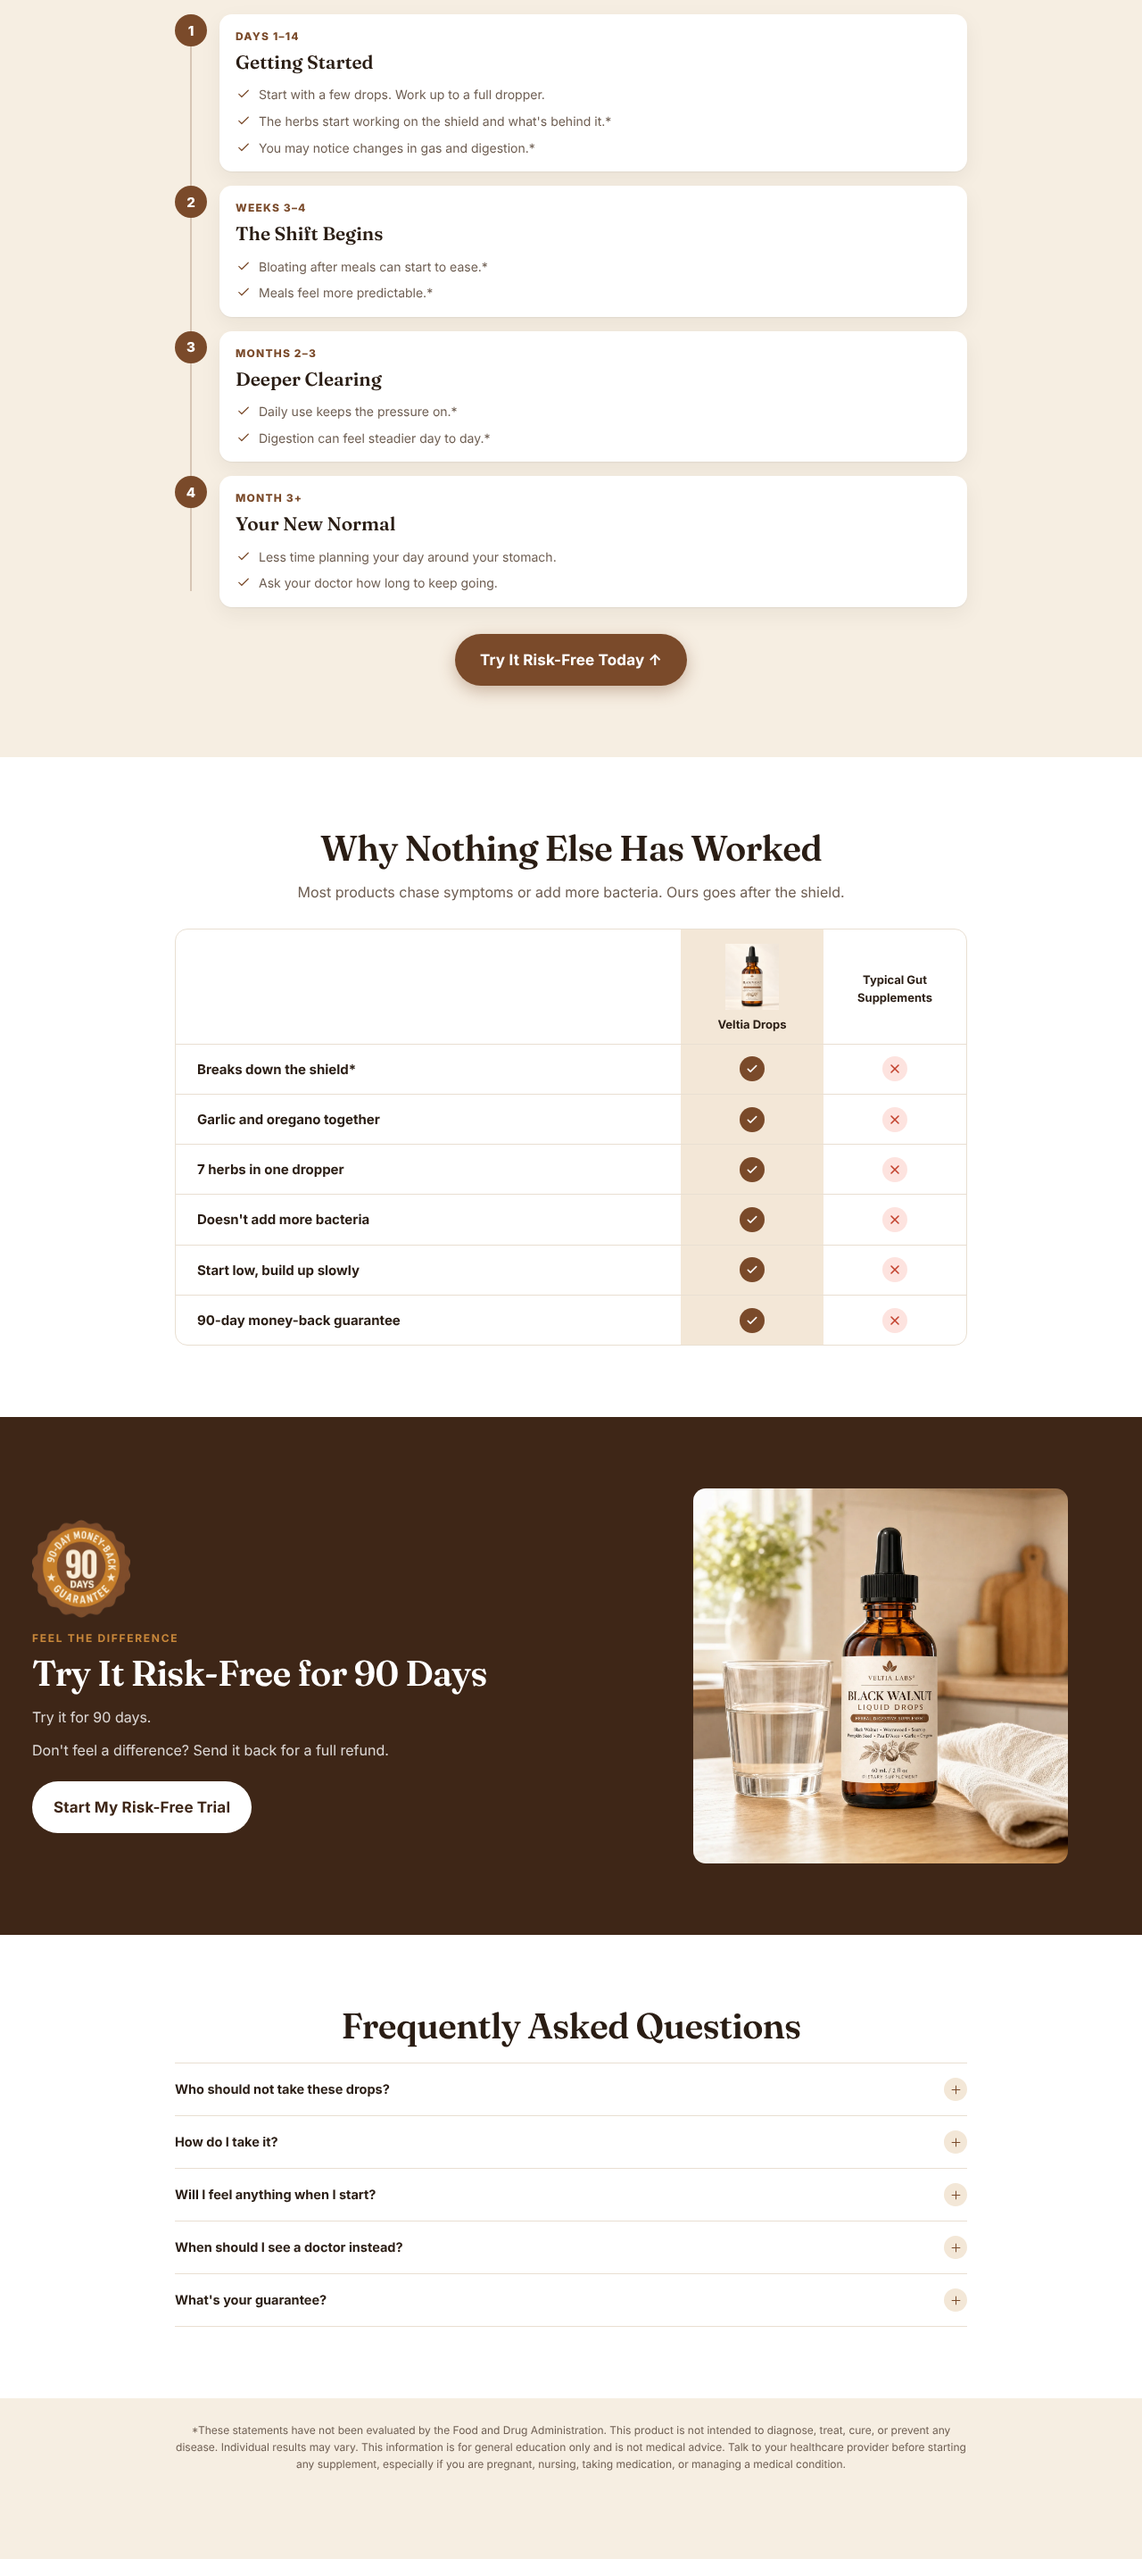
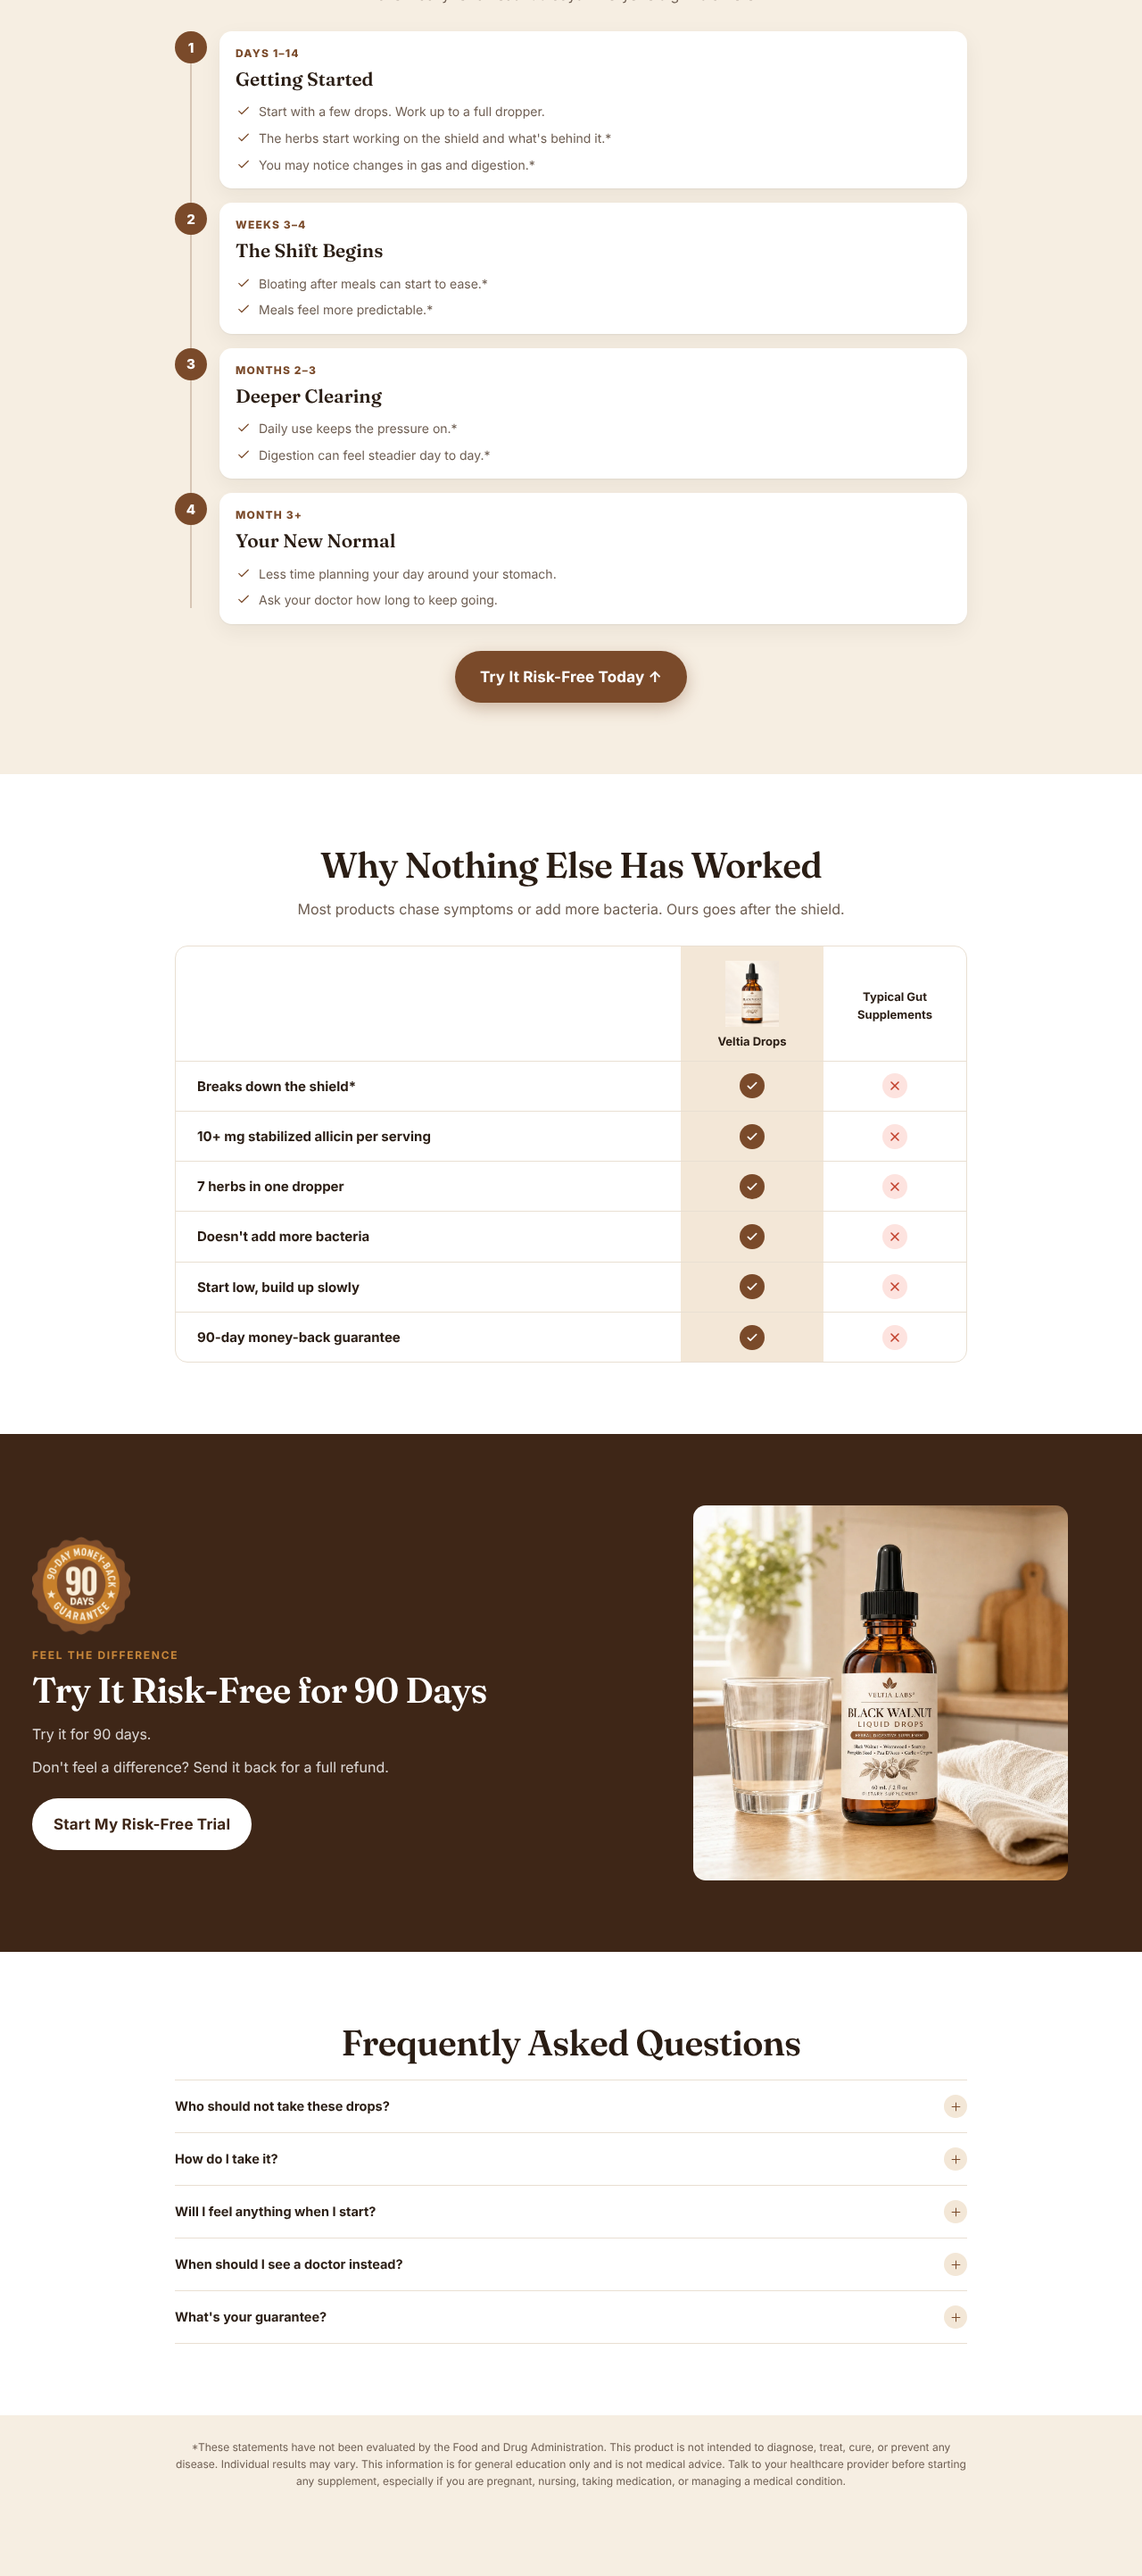
Add Why garlic FAQ and confirmed allicin dose
The supplier confirmed the garlic is stabilized allicin at 10+ mg per
serving, stable in the bottle. New buy-box FAQ explains why garlic and
why stabilized allicin rather than eating garlic. The garlic ingredient
card and a comparison row now state 10+ mg stabilized allicin per
serving. README checklist and the mechanism research note record the
confirmation.

Claude-Session: https://claude.ai/code/session_01AhumSBheWgE3cxUA6XvBzm

diff --git a/preview/index.html b/preview/index.html
@@ -1445,6 +1445,13 @@ Pause or cancel anytime</span></span></span>
               <div class="pdp-accordion__body pdp-rte"><p>Oregano is good at clearing bacteria that are out in the open. On its own, it can't get past the shield.</p><p>That's why our drops pair it with garlic. Garlic helps open the shield. That lets oregano, wormwood and black walnut reach what's behind it.*</p></div>
             </details><details class="pdp-accordion"  >
               <summary class="pdp-accordion__summary">
+                <span>Why garlic? Can't I just eat more garlic?</span>
+                <span class="pdp-accordion__icon" aria-hidden="true"><svg class="pdp-icon pdp-icon--plus" aria-hidden="true" focusable="false" viewBox="0 0 24 24" fill="none" stroke="currentColor" stroke-width="1.6" stroke-linecap="round" stroke-linejoin="round"><path d="M12 5v14M5 12h14"/></svg>
+</span>
+              </summary>
+              <div class="pdp-accordion__body pdp-rte"><p>Garlic's power comes from allicin. Lab studies show it can help break down the shield bacteria hide behind.*</p><p>But allicin is fragile. It forms when you crush garlic, then fades fast. Cooking destroys most of it.</p><p>That's why we use stabilized allicin: at least 10 mg in every serving, made to stay strong in the bottle.</p></div>
+            </details><details class="pdp-accordion"  >
+              <summary class="pdp-accordion__summary">
                 <span>It worked for a while, then came back. Why would this be different?</span>
                 <span class="pdp-accordion__icon" aria-hidden="true"><svg class="pdp-icon pdp-icon--plus" aria-hidden="true" focusable="false" viewBox="0 0 24 24" fill="none" stroke="currentColor" stroke-width="1.6" stroke-linecap="round" stroke-linejoin="round"><path d="M12 5v14M5 12h14"/></svg>
 </span>
@@ -1608,7 +1615,7 @@ Pause or cancel anytime</span></span></span>
 </span>
               </span>
               <span class="pdp-flip__face pdp-flip__back"><span class="pdp-flip__tag">Shield Breaker</span><span class="pdp-flip__name">Garlic</span>
-                <span class="pdp-flip__benefit">Has allicin. Lab studies show it can help break down the shield bacteria hide behind.*</span><span class="pdp-flip__dose"><small>Key compound</small>Allicin</span></span>
+                <span class="pdp-flip__benefit">10+ mg of stabilized allicin per serving. Lab studies show allicin can help break down the shield bacteria hide behind.*</span><span class="pdp-flip__dose"><small>Key compound</small>Stabilized allicin, 10+ mg</span></span>
             </span>
           </button>
         </li><li >
@@ -1776,7 +1783,7 @@ Ask your doctor how long to keep going.</span></li></ul>
           <span class="pdp-compare__col" role="cell"><span class="pdp-compare__no"><svg class="pdp-icon pdp-icon--cross" aria-hidden="true" focusable="false" viewBox="0 0 24 24" fill="none" stroke="currentColor" stroke-width="1.6" stroke-linecap="round" stroke-linejoin="round"><path d="M6 6l12 12M18 6L6 18"/></svg>
 <span class="visually-hidden">No</span></span></span>
         </div><div class="pdp-compare__row" role="row" >
-          <span class="pdp-compare__feature" role="rowheader">Garlic and oregano together</span>
+          <span class="pdp-compare__feature" role="rowheader">10+ mg stabilized allicin per serving</span>
           <span class="pdp-compare__col pdp-compare__col--us" role="cell"><span class="pdp-compare__yes"><svg class="pdp-icon pdp-icon--check" aria-hidden="true" focusable="false" viewBox="0 0 24 24" fill="none" stroke="currentColor" stroke-width="1.6" stroke-linecap="round" stroke-linejoin="round"><path d="M5 12.5l4.2 4.2L19 7"/></svg>
 <span class="visually-hidden">Yes</span></span></span>
           <span class="pdp-compare__col" role="cell"><span class="pdp-compare__no"><svg class="pdp-icon pdp-icon--cross" aria-hidden="true" focusable="false" viewBox="0 0 24 24" fill="none" stroke="currentColor" stroke-width="1.6" stroke-linecap="round" stroke-linejoin="round"><path d="M6 6l12 12M18 6L6 18"/></svg>

diff --git a/veltia-page-copy.md b/veltia-page-copy.md
@@ -59,6 +59,14 @@ Oregano is good at clearing bacteria that are out in the open. On its own, it ca
 
 That's why our drops pair it with garlic. Garlic helps open the shield. That lets oregano, wormwood and black walnut reach what's behind it.*
 
+**Why garlic? Can't I just eat more garlic?**
+
+Garlic's power comes from allicin. Lab studies show it can help break down the shield bacteria hide behind.*
+
+But allicin is fragile. It forms when you crush garlic, then fades fast. Cooking destroys most of it.
+
+That's why we use stabilized allicin: at least 10 mg in every serving, made to stay strong in the bottle.
+
 **It worked for a while, then came back. Why would this be different?**
 
 You're not alone. It's the story we hear most.
@@ -157,7 +165,7 @@ Garlic helps open the shield. That lets oregano, wormwood and black walnut reach
 
 Tap a card to see what it does
 
-- **Garlic** (Shield Breaker): Has allicin. Lab studies show it can help break down the shield bacteria hide behind.*
+- **Garlic** (Shield Breaker): 10+ mg of stabilized allicin per serving. Lab studies show allicin can help break down the shield bacteria hide behind.*
 - **Oregano** (Microbial Balance): Helps clear unwanted microbes once the shield is down.*
 - **Black Walnut** (Traditional Cleanse Herb): Used for generations in herbal cleanses to support a healthy gut.*
 - **Wormwood** (Digestive Bitter): A very bitter herb, used for centuries to support digestion.*
@@ -207,7 +215,7 @@ Most products chase symptoms or add more bacteria. Ours goes after the shield.
 | | Veltia Drops | Typical Gut Supplements |
 |---|:-:|:-:|
 | Breaks down the shield* | ✓ | ✗ |
-| Garlic and oregano together | ✓ | ✗ |
+| 10+ mg stabilized allicin per serving | ✓ | ✗ |
 | 7 herbs in one dropper | ✓ | ✗ |
 | Doesn't add more bacteria | ✓ | ✗ |
 | Start low, build up slowly | ✓ | ✗ |

diff --git a/README.md b/README.md
@@ -75,7 +75,7 @@ Then:
 **Confirm with the supplier** (the copy depends on these):
 
 - [ ] Full Supplement Facts panel: amount of each botanical per serving, serving size, liquid base (glycerin, alcohol or oil). Upload it as *Ingredients → Supplement Facts panel image*.
-- [ ] Garlic form and **allicin content per serving**. The whole mechanism ("garlic helps break down the shield") depends on allicin actually being present. If it isn't, rewrite the mechanism section and FAQ around oregano.
+- [x] Garlic form and allicin: supplier confirmed **stabilized allicin, 10+ mg per serving, stable in the bottle**. The page now says "at least 10 mg" ("Why garlic?" FAQ, garlic card, comparison table). Keep the supplier's COA on file, and make sure the label's serving size matches "one full dropper" and its allicin figure is 10 mg or more.
 - [ ] Oregano carvacrol %, black walnut juglone %. Update the "Key compound" field on each ingredient card to match the label.
 - [ ] Taste and directions. The FAQ says "earthy and bitter" and "start with a few drops, work up to a full dropper". Match the label's directions.
 - [ ] Allergen and free-from facts (gluten-free, vegan, sugar-free, etc.). The "free from" checklist was removed until these are confirmed; re-add them as *Why trust → Free-from item* blocks.

diff --git a/research/unique-mechanisms.md b/research/unique-mechanisms.md
@@ -15,6 +15,9 @@ Logical engine only. No copy. Prepared 2026-10-13.
 | A3 | The one desire is **Control**: *my body and my day back*. The physical side is predictable bowels and no evening bloat. | from the report |
 | A4 | The stage brief named problem, solution and product aware; the second brief asks for one. I score **solution aware** as primary (she's tried diets, probiotics, laxatives, antibiotics, herbals) and note each candidate's best stage. | CONFIRM |
 
+
+> **Update:** the supplier has confirmed the garlic is **stabilized allicin at 10+ mg per serving, stable in the bottle**. That clears the allicin PROVISIONAL flags below. The human evidence notes on each mechanism still apply.
+
 ---
 
 ## Step 1. What I'm looking at
